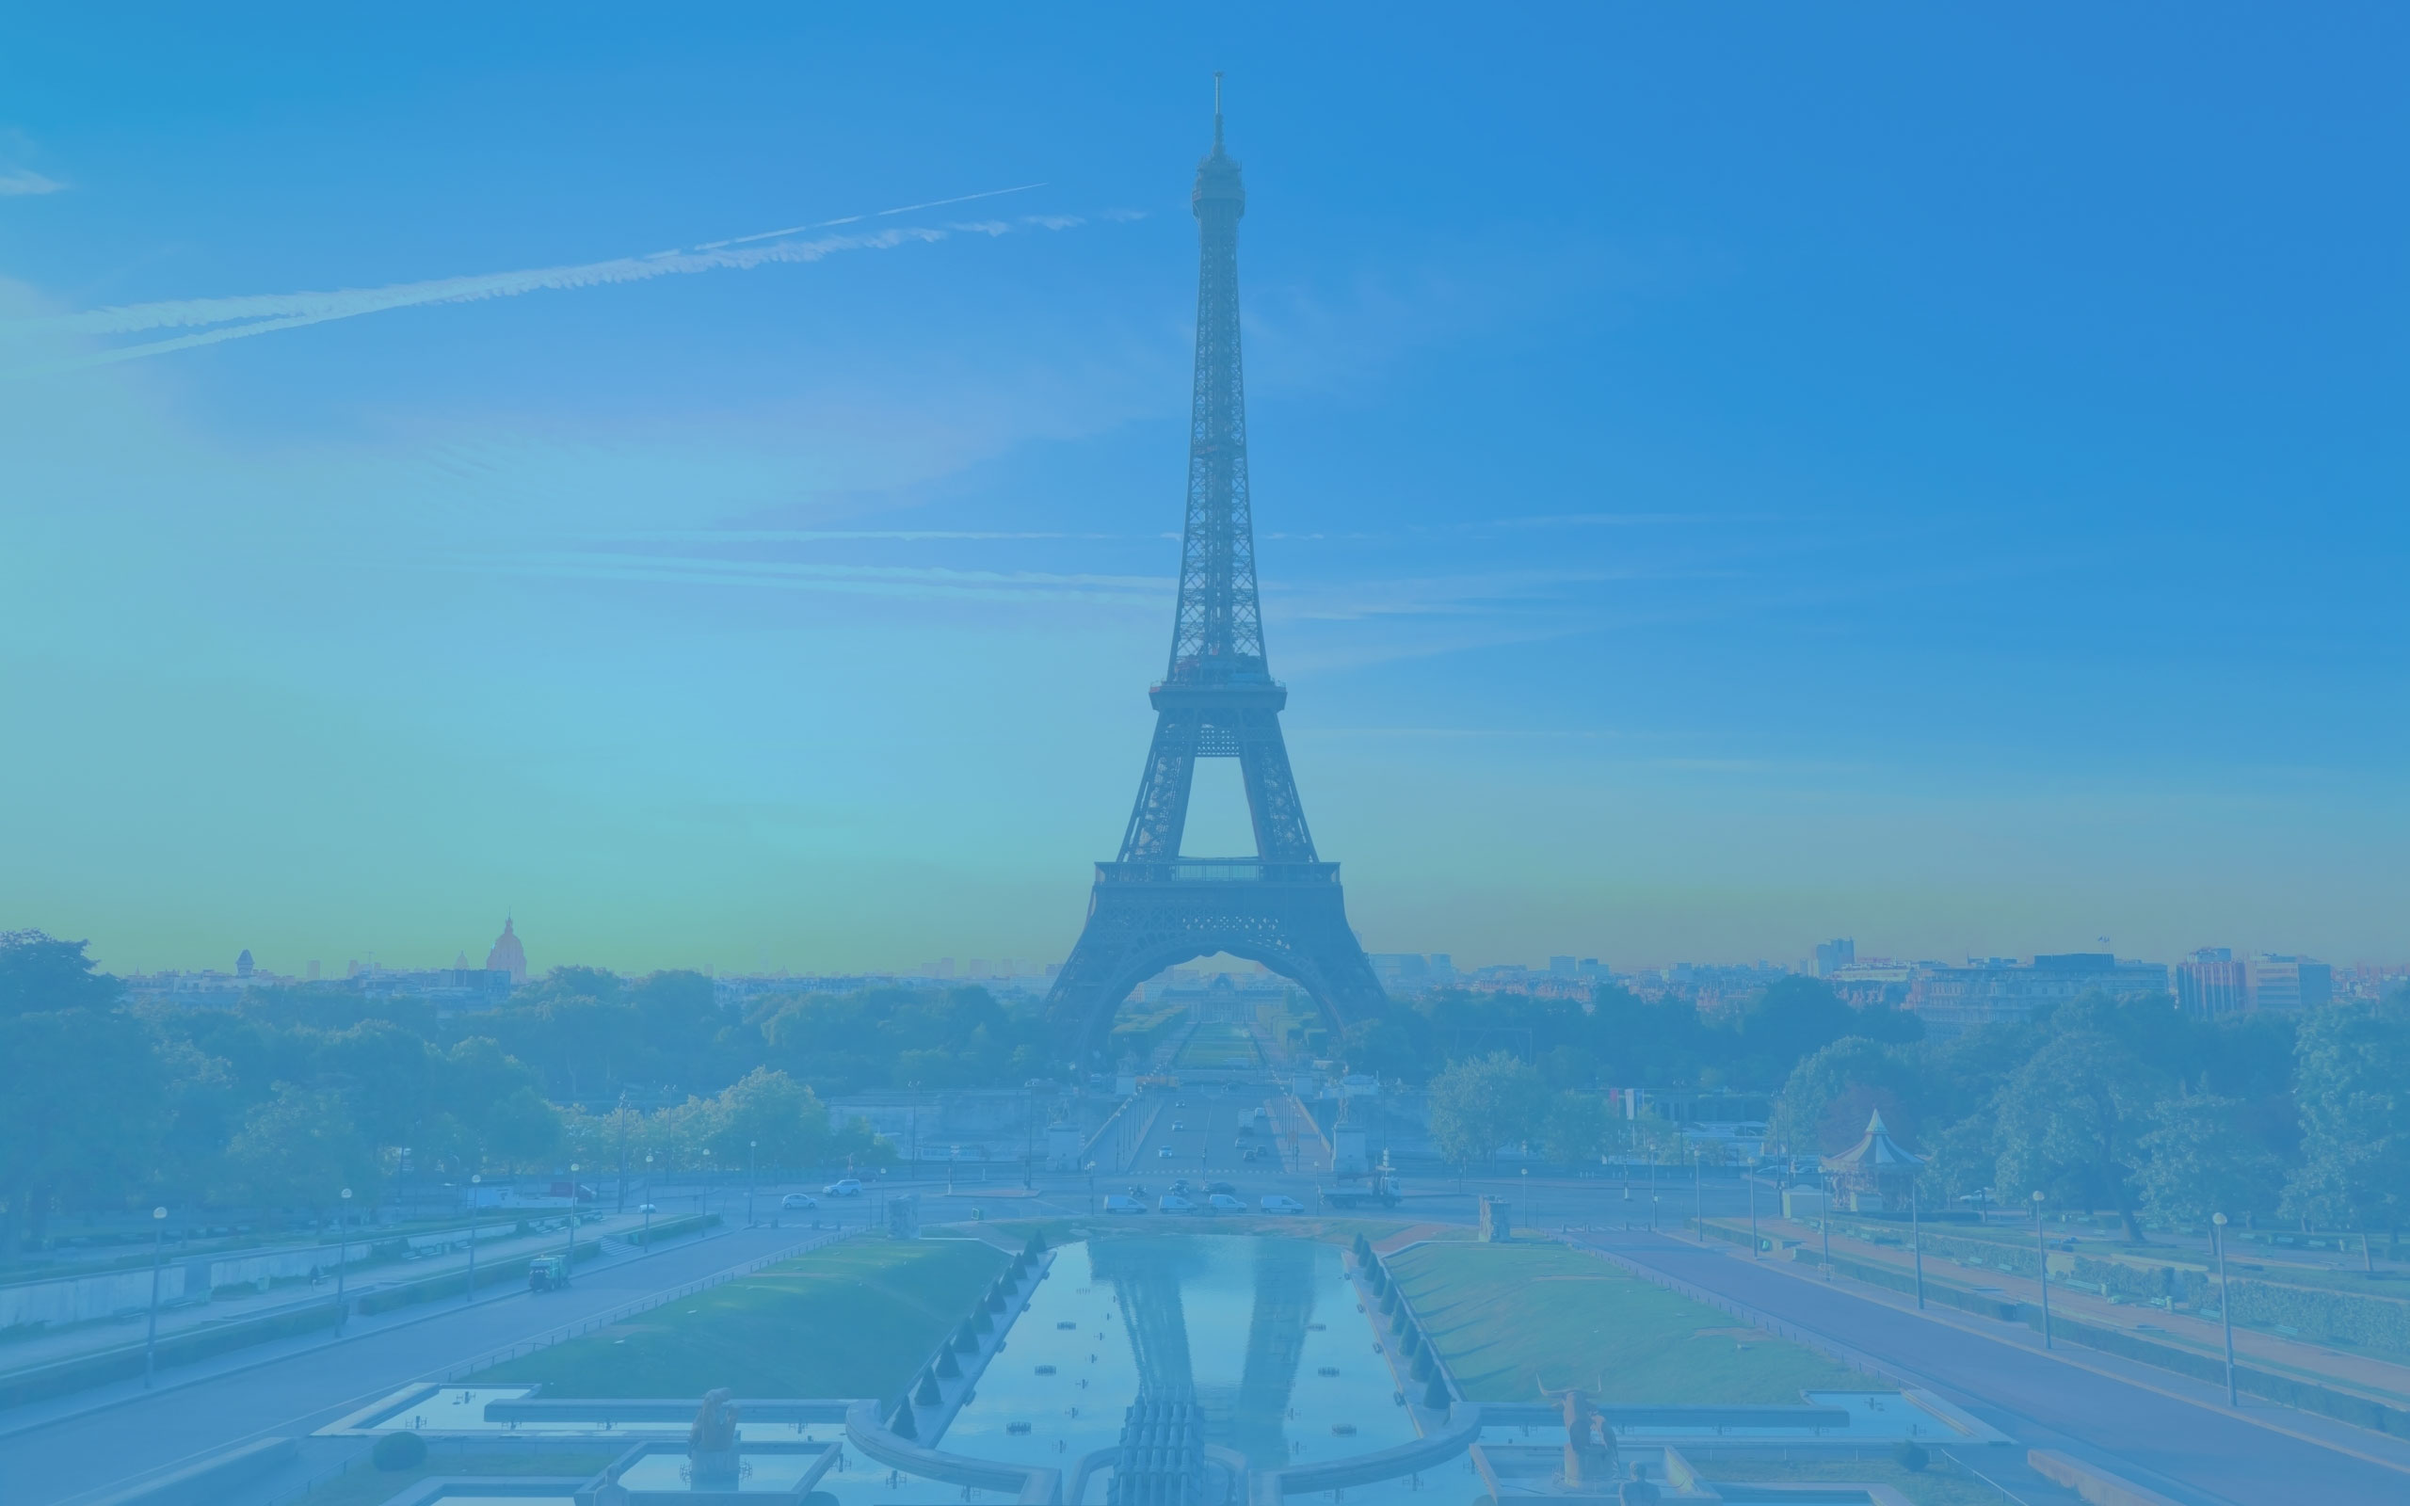
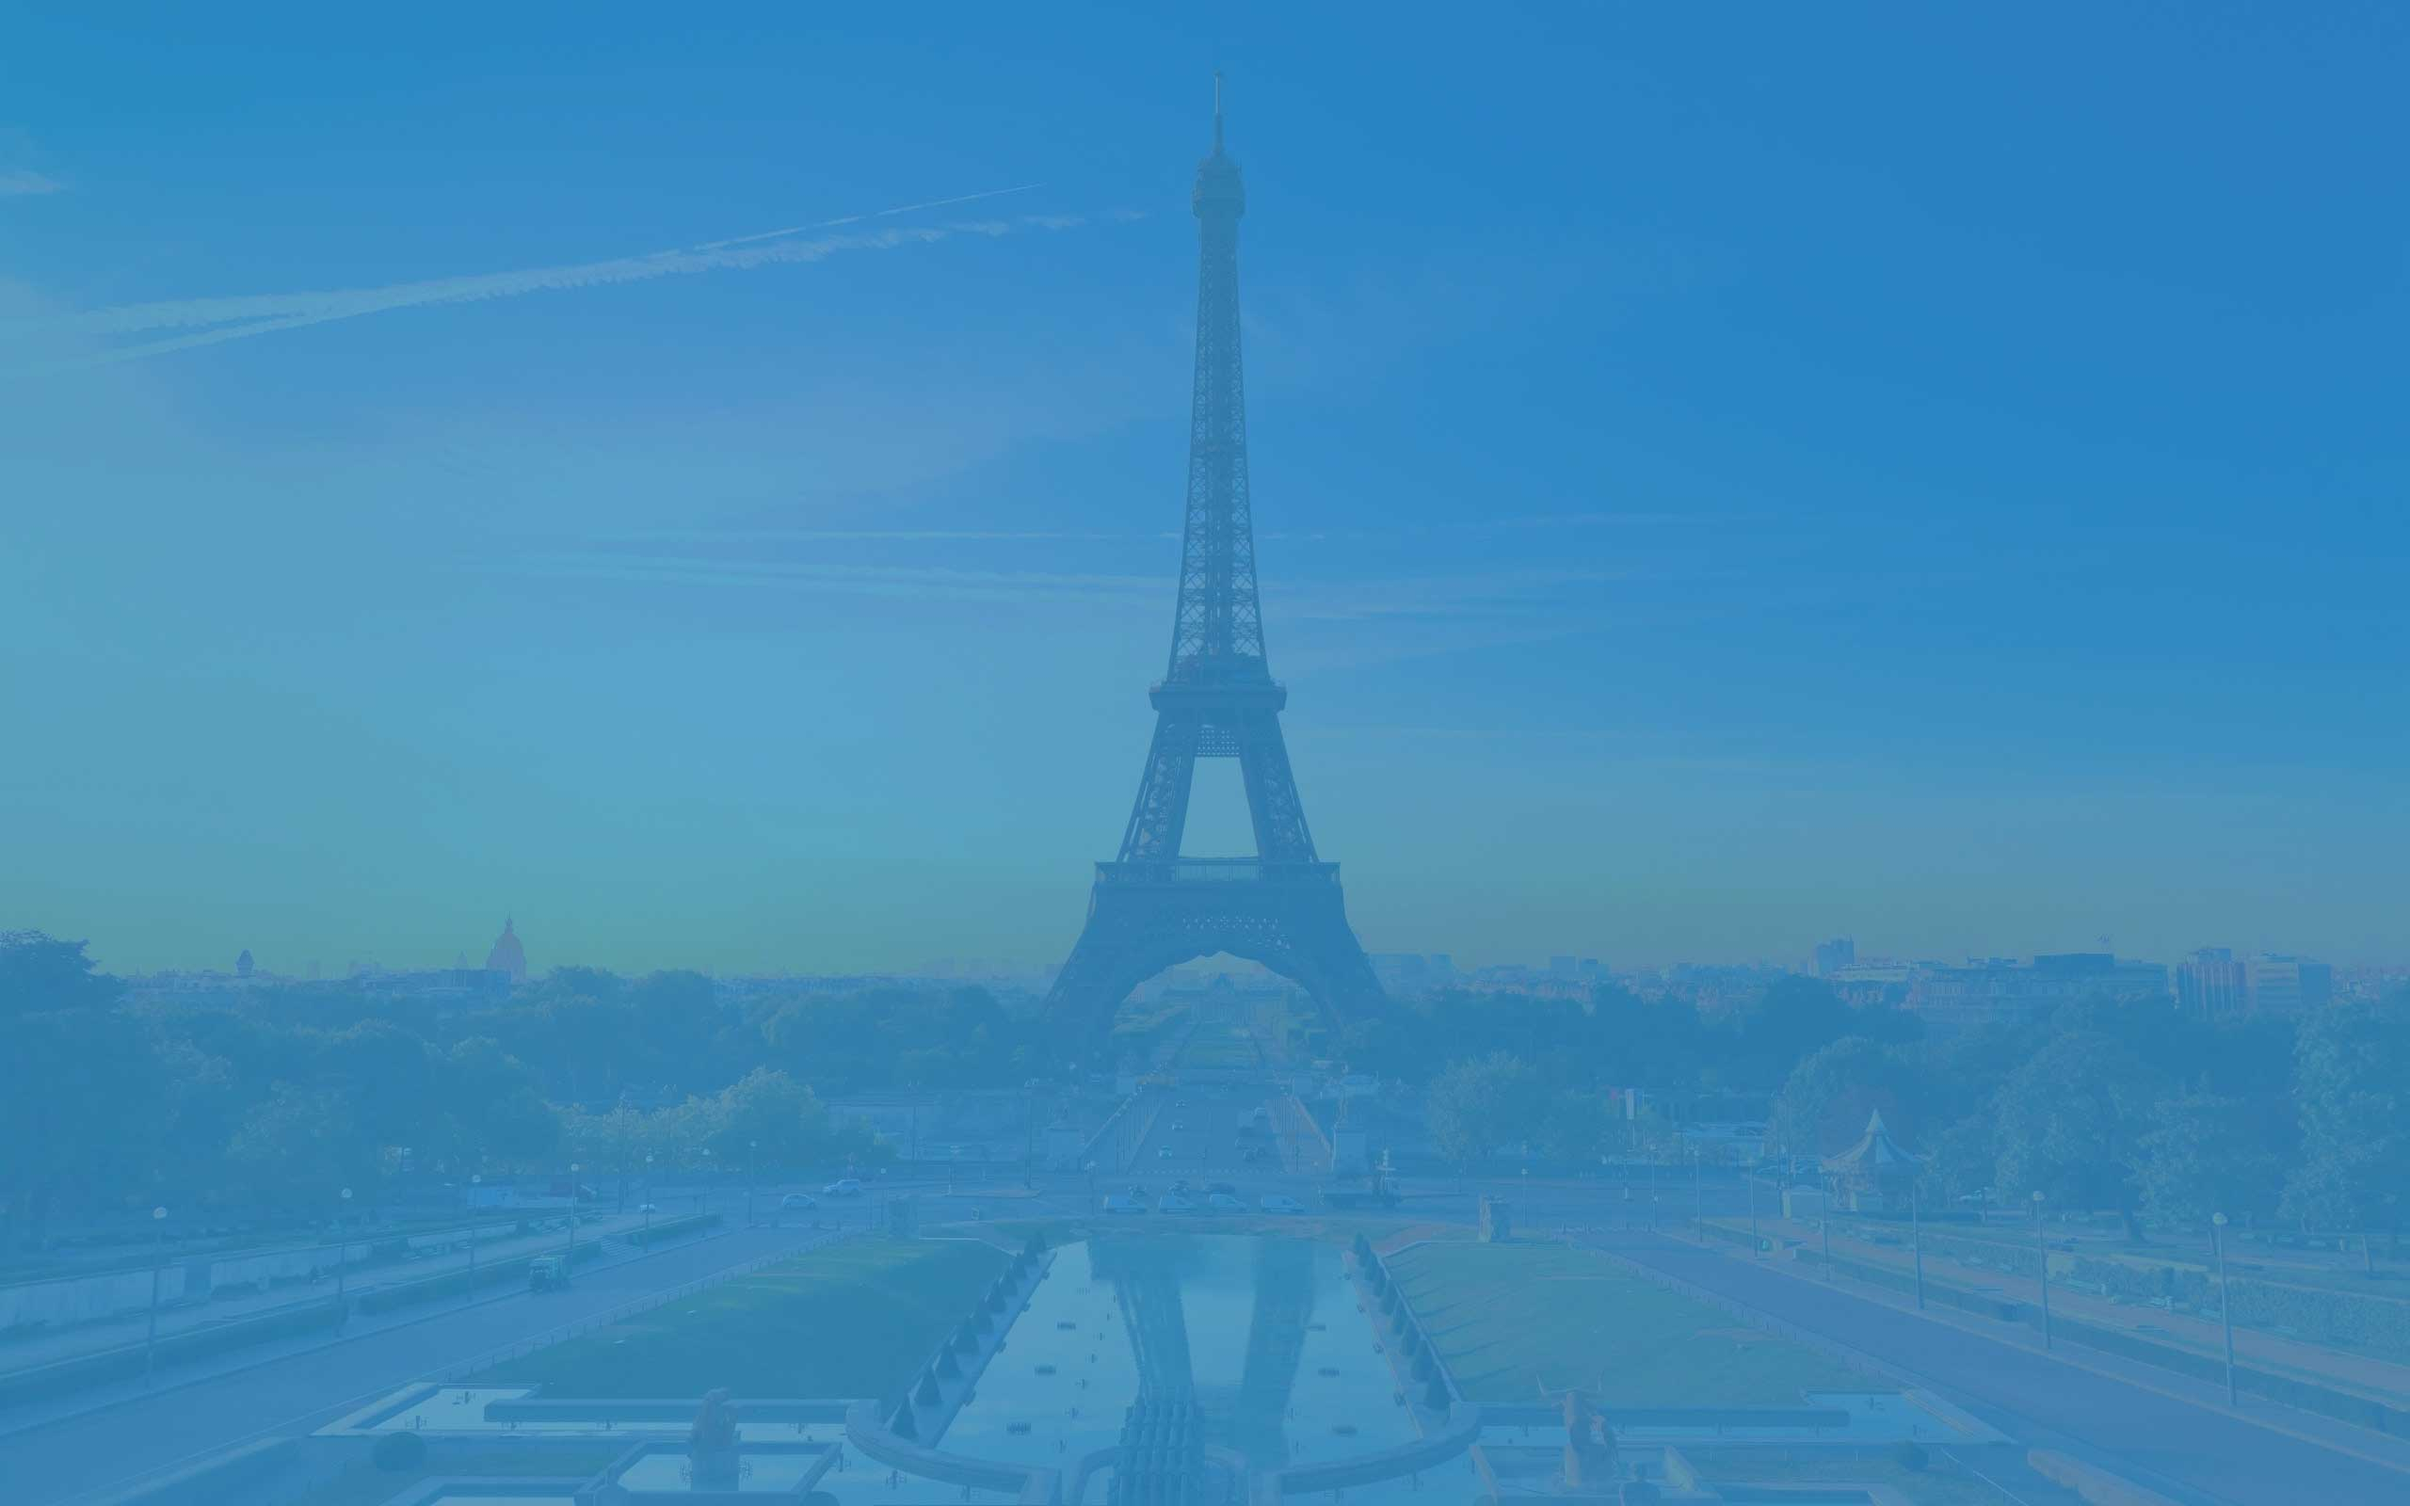
Darkens bg image and mods to client list.

diff --git a/index.html b/index.html
@@ -56,15 +56,16 @@
             <div class="row">
                 <div class="col-sm-12">
                     <p>
-                        Hewlett Packard |
+                        Hewlett Packard Europe |
+	                    China Fashion Council |
+	                    Fidelity Investments |
                         Microsoft |
                         Accenture |
                         Wells Fargo |
-                        China Fashion Council |
-                        Fidelity Investments |
-                        Etisalat (Dubai, UAE) |
-                        The LPGA |
+                        McKesson |
                         PWC |
+	                    State Farm |
+	                    Etisalat (Dubai, UAE) |
                         Gillette
                     </p>
                 </div>
